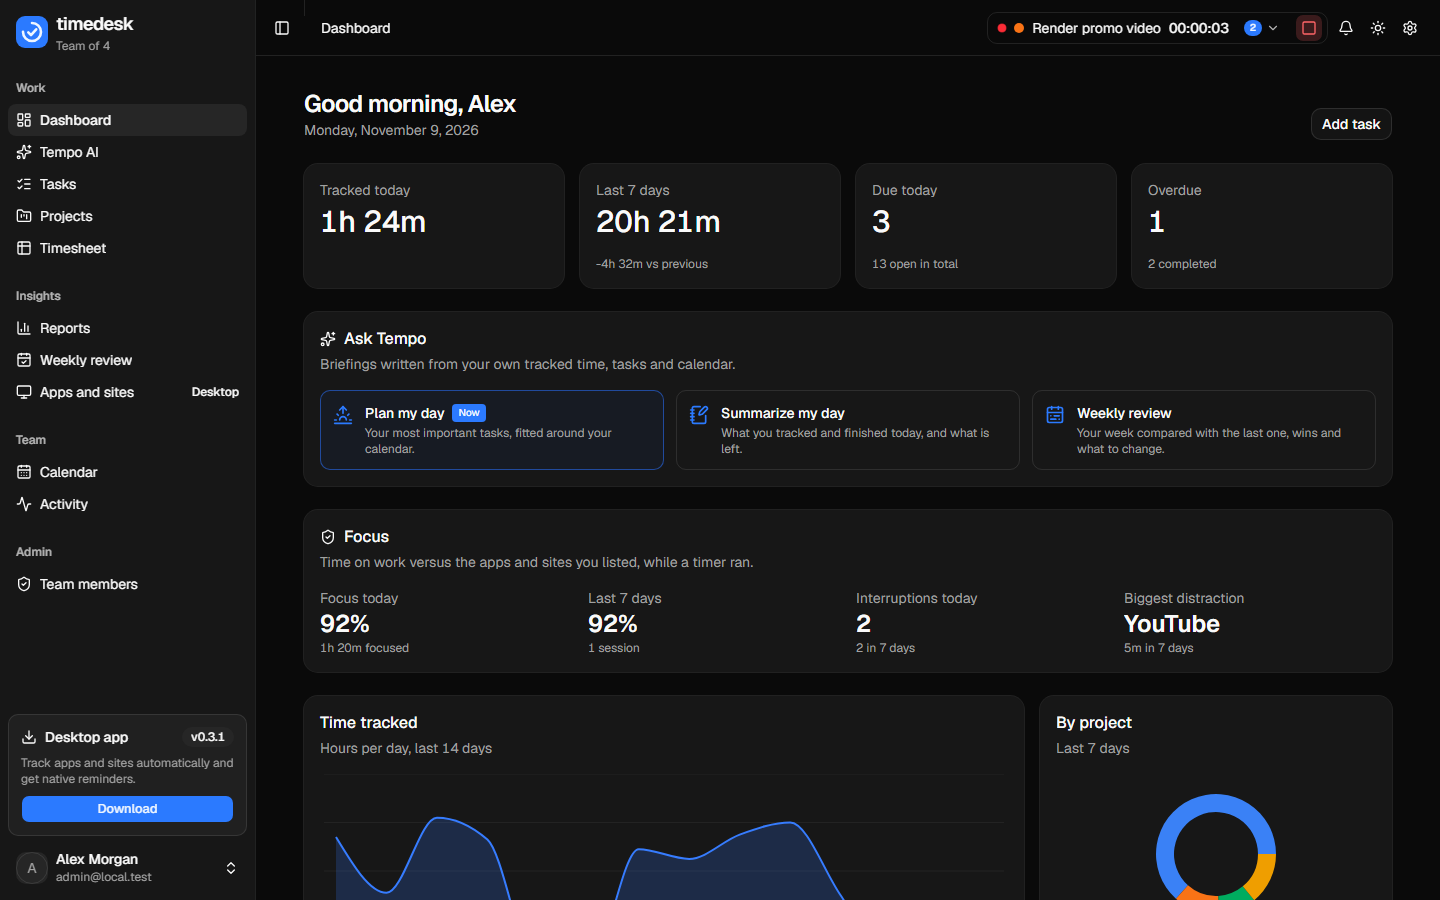
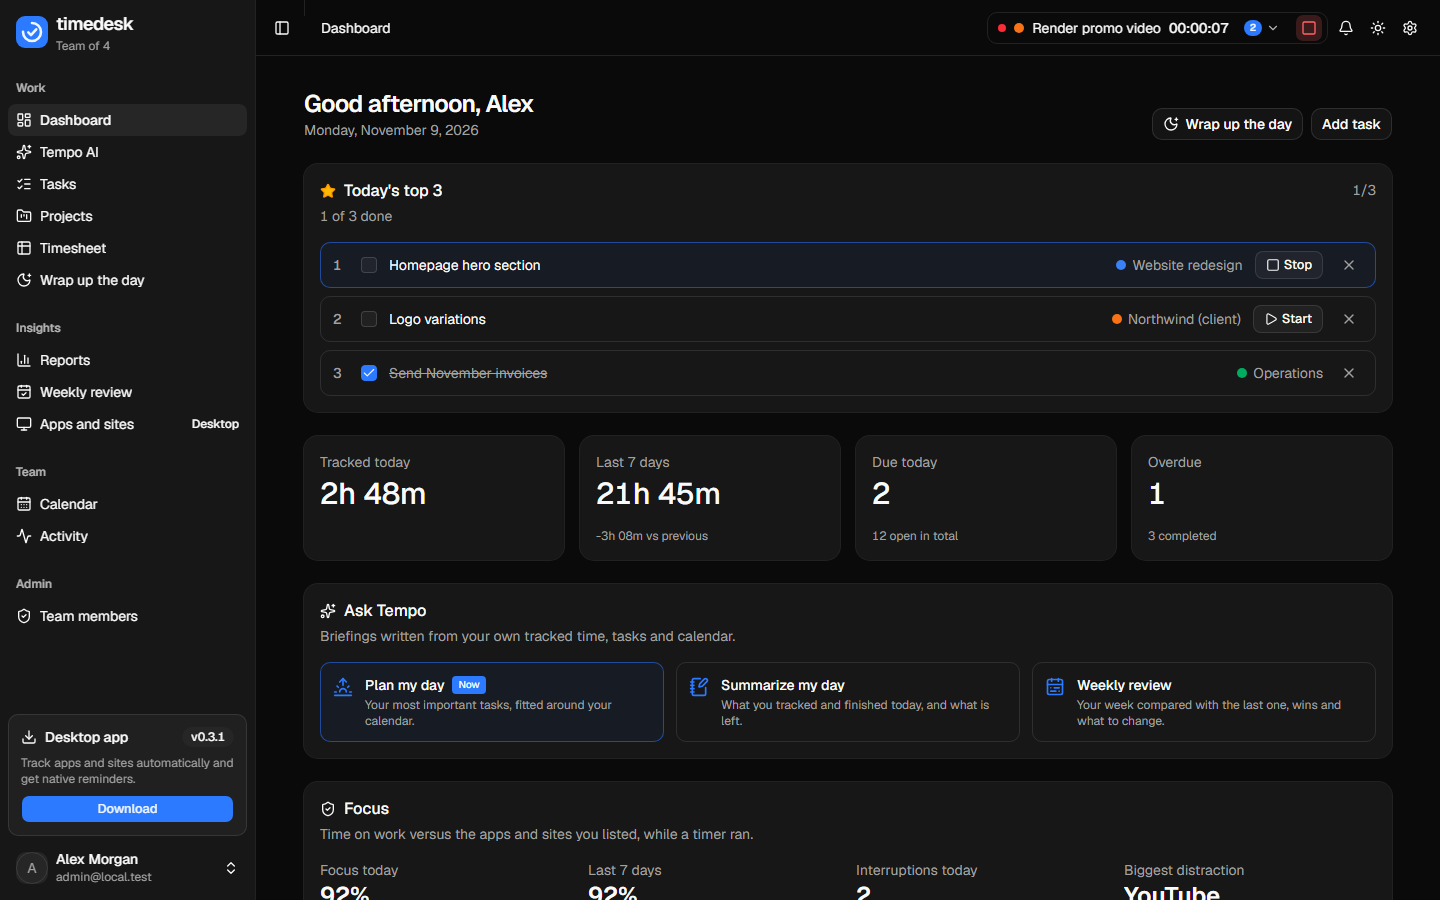
Google Calendar setup wizard and a local try-out on real Google; README shows top 3 and wrap-up
- scripts/setup-google-calendar.sh walks through the Google Cloud console and saves the keys to apps/api/.env
- pnpm --filter @timedesk/api dev:google: the in-memory API with your real Google keys (only those two values are read)
- README and DEPLOY updated; new screenshots; focus test waits longer for a full minute [vercel skip]

diff --git a/apps/api/src/dev-memory.ts b/apps/api/src/dev-memory.ts
@@ -3,7 +3,10 @@ import { Hono } from 'hono'
 import { createTestDb } from '@timedesk/db/testing'
 import { createApp } from './app.ts'
 import { createAuth } from './lib/auth.ts'
+import { existsSync, readFileSync } from 'node:fs'
+import { parseEnv } from 'node:util'
 import { createFakeGoogle } from './lib/google-fake.ts'
+import { createGoogleClient } from './lib/google.ts'
 import { noMemory } from './lib/memory.ts'
 import { realModelFactory } from './lib/models.ts'
 import { mockModelFactory } from './dev-mock-model.ts'
@@ -19,7 +22,21 @@ const db = await createTestDb()
 const auth = createAuth({ db, secret: 'dev-memory-secret-'.repeat(3), baseURL: `http://localhost:${port}`, webOrigin, desktopOrigin: 'app://timedesk', adminEmails: ['admin@local.test'] })
 // FAKE_GOOGLE=1 switches Google Calendar on with an in-memory fake Google (sign-in connects dev@gmail.test).
 const fakeGoogle = process.env.FAKE_GOOGLE ? createFakeGoogle() : undefined
-const google = fakeGoogle ? { client: fakeGoogle.client, redirectUri: `http://localhost:${port}/v1/integrations/google/callback` } : undefined
+/**
+ * REAL_GOOGLE=1: connect your real Google Calendar on this throwaway database (your Neon database is not touched).
+ * Only GOOGLE_CLIENT_ID and GOOGLE_CLIENT_SECRET are read from apps/api/.env; nothing else from that file is used.
+ */
+function realGoogleKeys() {
+  const file = new URL('../.env', import.meta.url)
+  if (!existsSync(file)) return null
+  const env = parseEnv(readFileSync(file, 'utf8'))
+  return env.GOOGLE_CLIENT_ID && env.GOOGLE_CLIENT_SECRET ? { clientId: env.GOOGLE_CLIENT_ID, clientSecret: env.GOOGLE_CLIENT_SECRET } : null
+}
+const wantReal = !!process.env.REAL_GOOGLE || process.argv.includes('--real-google')
+const realKeys = !fakeGoogle && wantReal ? realGoogleKeys() : null
+if (wantReal && !realKeys) console.warn('Real Google was asked for, but apps/api/.env has no GOOGLE_CLIENT_ID and GOOGLE_CLIENT_SECRET: Google Calendar stays off.')
+const redirectUri = `http://localhost:${port}/v1/integrations/google/callback`
+const google = fakeGoogle ? { client: fakeGoogle.client, redirectUri } : realKeys ? { client: createGoogleClient(realKeys), redirectUri } : undefined
 const app = createApp({ db, auth, env: { WEB_ORIGIN: webOrigin, KEY_ENCRYPTION_SECRET: 'dev-memory-key-'.repeat(3) }, models: process.env.MOCK_AI ? mockModelFactory : realModelFactory, memory: noMemory, google })
 
 // Browser tests look for this route and refuse to run against anything else, so they can never hit a real database.

diff --git a/README.md b/README.md
@@ -17,6 +17,7 @@ Time tracking, todos and an AI assistant for a small team. One web app, a Window
 | Area | Features |
 |---|---|
 | **Plan** | Projects, tasks with status, priority, due date and recurrence (daily, weekly, monthly, custom), due-date groups (overdue, today, tomorrow, this week, later), list, board, day, week and month views, drag and drop to reschedule or change status, edit and delete projects |
+| **Focus your day** | **Today's top 3:** pick the few tasks that matter most, at the top of the dashboard. **Wrap up the day:** stop timers, fill in what was not tracked (meetings from your calendar, apps you used, with the project guessed from your history), move what is left to tomorrow and pick tomorrow's top 3 |
 | **Track** | Timer in the top bar, stopwatch, weekly timesheet. **Multitasking:** run several timers at once; overlapping time is shared between them, so your day still adds up to the clock |
 | **Offline** | Every change is saved on your device first and synced in order when you are online, with the time you really pressed the button. The app opens without a connection. A badge shows what is still waiting |
 | **Understand** | Dashboard with charts, reports by day, month, quarter, year and any custom date range, weekly review |
@@ -39,8 +40,8 @@ Time tracking, todos and an AI assistant for a small team. One web app, a Window
 | **Reports:** by day, month, quarter, year or any range | **Multitasking:** track a second task alongside, stop each on its own |
 | ![Tempo asks for approval before deleting a task](docs/media/tempo-approval.png) | ![Picking any colour for a project](docs/media/project-colours.png) |
 | **Tempo asks first:** nothing is deleted until you allow it | **Project colours:** 12 presets or any colour |
-
-![The dashboard in dark mode](docs/media/dashboard-dark.png)
+| ![Wrap up the day: stop timers, fill in the gaps, what you did, move what is left](docs/media/wrap-up.png) | ![The dashboard in dark mode](docs/media/dashboard-dark.png) |
+| **Wrap up the day:** two minutes, and tomorrow starts with a plan | **Dark mode** |
 
 <sub>Pictures made from made-up demo data by `apps/web/e2e/capture-readme.mjs`.</sub>
 
@@ -110,7 +111,7 @@ After signing in, add an AI key under **Settings -> AI assistant** to use Tempo.
 ## Testing
 
 - **Unit and integration (`pnpm test`):** the API is tested through its real HTTP interface on an in-memory Postgres (PGlite) with the real migrations: registration and approval, privacy between users, tasks, time, chats, settings, activity, encrypted keys, the AI agent with a mock model, security headers. Shared logic and the desktop logic have their own tests.
-- **Browser end-to-end (real Chrome):** `apps/web/e2e/` has `auth-flow`, `data-flow`, `tasks-flow` (day/week/month views, drag and drop, projects, model picker), `lists-flow` (markdown, custom-date reports, paged app list), `assistant-flow`, `timer-flow`, `tempo-account-flow` (briefings, export, delete account), `tempo-approval-flow` (Allow / Don't allow, questions) and `offline-flow` (stop a timer offline, reload offline, sync with the right times, multitasking). They drive the real UI against a throwaway API. **They refuse to run against anything but the in-memory API**, so they can never touch a real database. How to run them is at the top of each file.
+- **Browser end-to-end (real Chrome):** `apps/web/e2e/` has `auth-flow`, `data-flow`, `tasks-flow` (day/week/month views, drag and drop, projects, model picker), `lists-flow` (markdown, custom-date reports, paged app list), `assistant-flow`, `timer-flow`, `end-of-day-flow` (top 3, fill in the gaps, wrap up), `tempo-account-flow` (briefings, export, delete account), `tempo-approval-flow` (Allow / Don't allow, questions) and `offline-flow` (stop a timer offline, reload offline, sync with the right times, multitasking). They drive the real UI against a throwaway API. **They refuse to run against anything but the in-memory API**, so they can never touch a real database. How to run them is at the top of each file.
 - **Desktop end-to-end (real Electron window):** `apps/desktop/e2e/desktop-flow.mjs`, `focus-flow.mjs` (Focus guard, with a fake window in front so it never reads the real desktop) and `packaged-smoke.mjs`.
 
 ## Deploy

diff --git a/docs/DEPLOY.md b/docs/DEPLOY.md
@@ -61,6 +61,8 @@ Tempo's memory (mem0) needs the `vector` extension. If memory errors, run in the
 
 Without this section everything else works; the Calendar page and Settings -> Calendar simply say Google Calendar is not set up. With it, each person can connect their own Google account: their events show in timedesk, they can add and edit events here, and tasks with a due date are mirrored to Google as all-day events (changes go both ways).
 
+**The quick way:** run `bash scripts/setup-google-calendar.sh` from the repository root. It opens each Google page, says exactly what to click, saves the keys to `apps/api/.env`, and lets you try it on your computer with a throwaway database (`pnpm --filter @timedesk/api dev:google`) before the live app. The steps below are the same, by hand.
+
 **What you need from Google** (free, about 10 minutes, one time):
 
 1. Go to the [Google Cloud console](https://console.cloud.google.com/) and create a project (any name, for example "timedesk").
